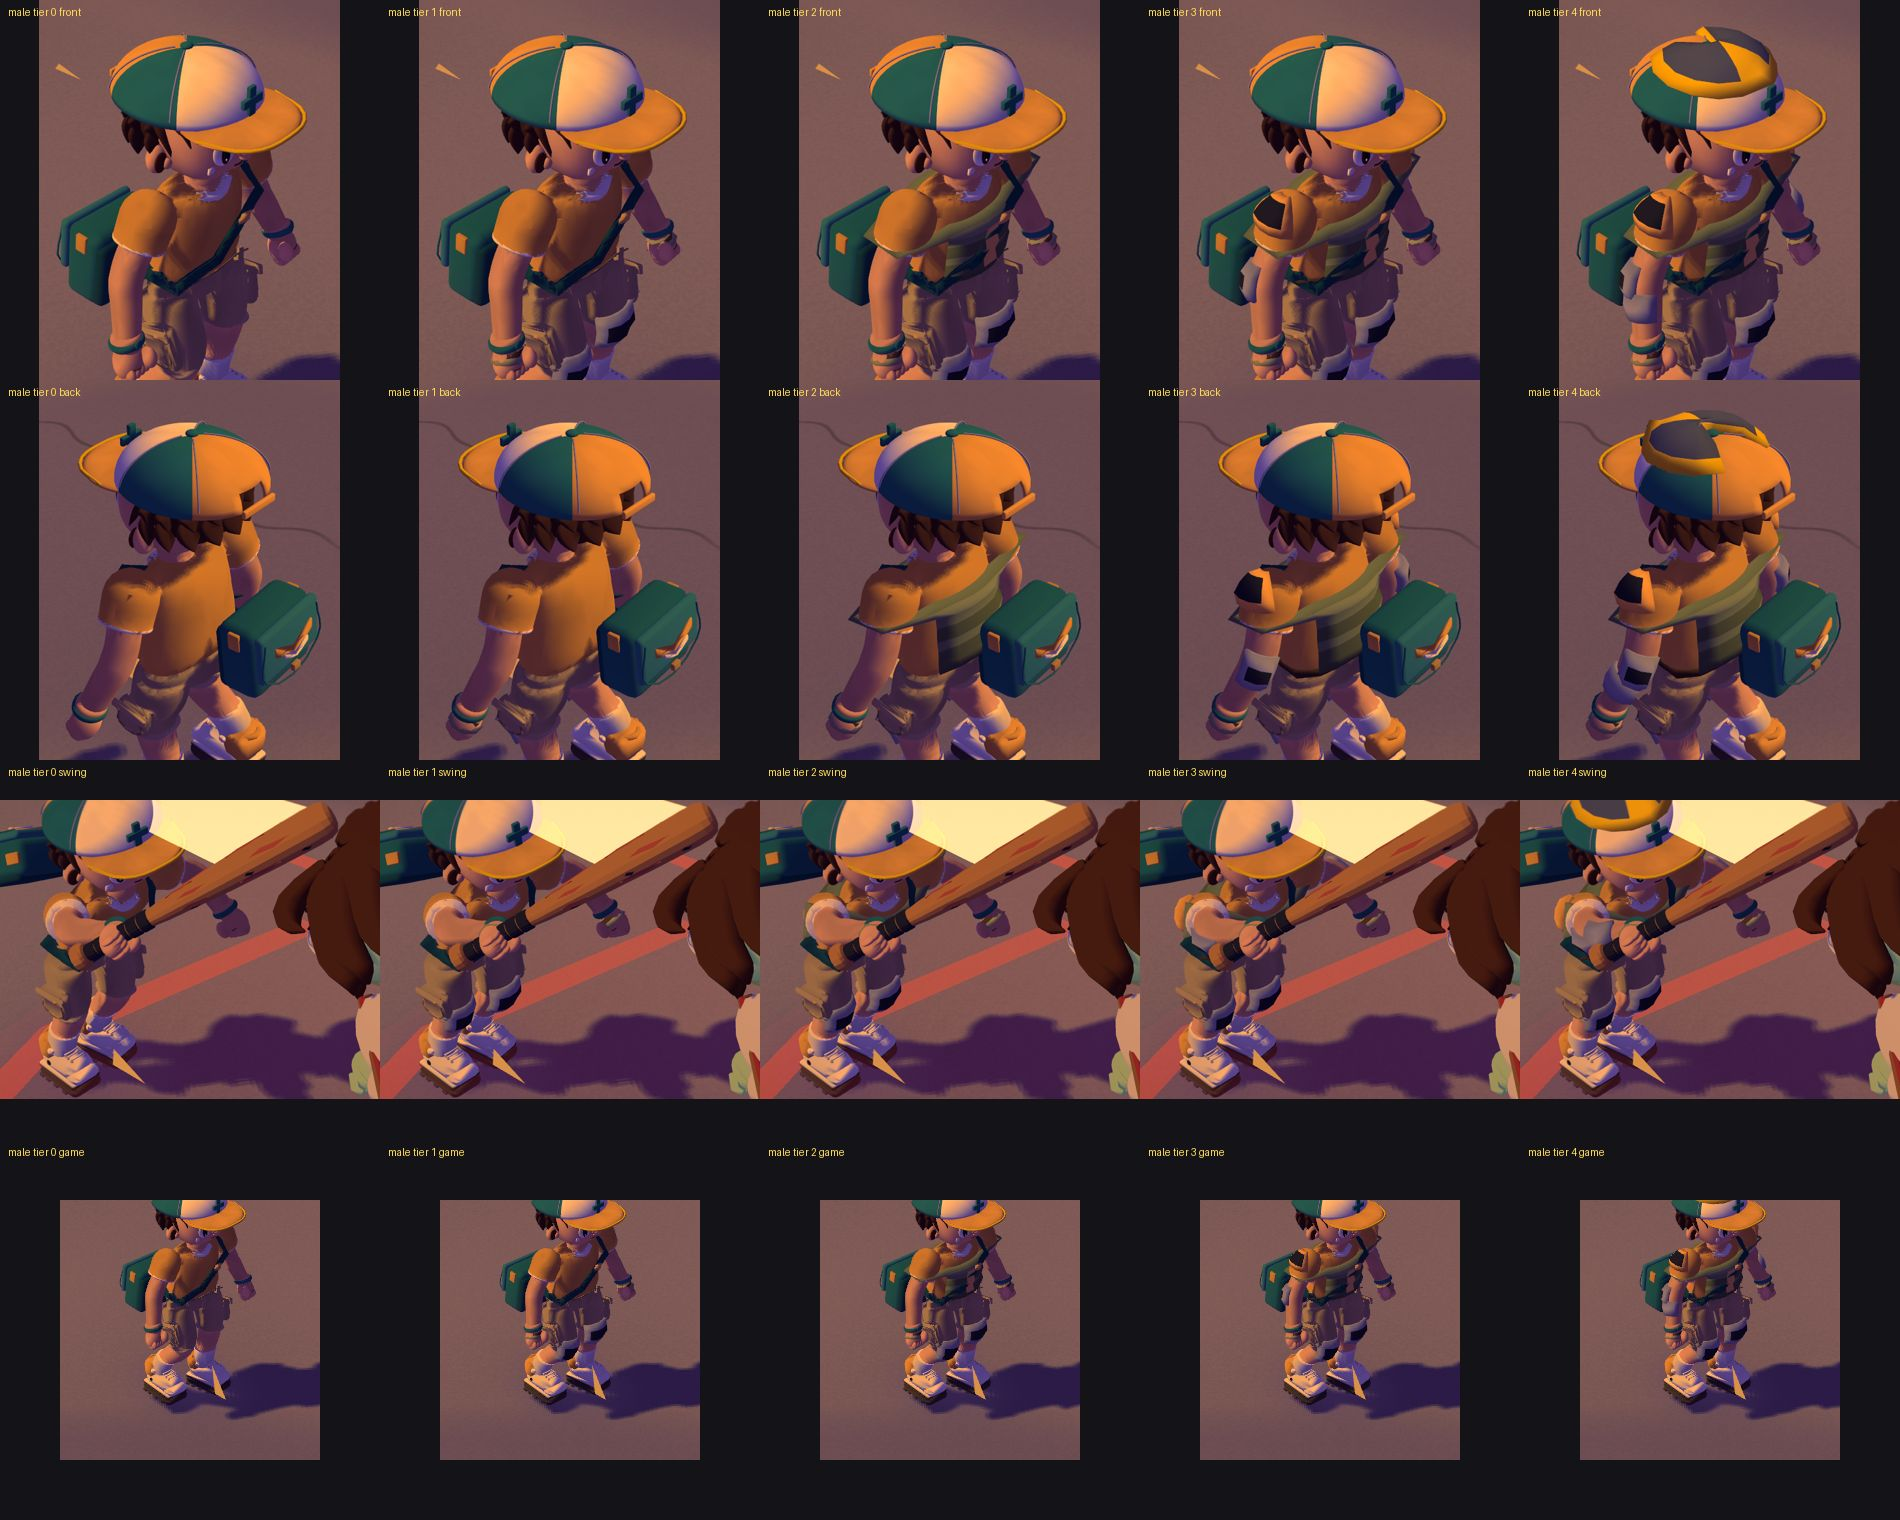
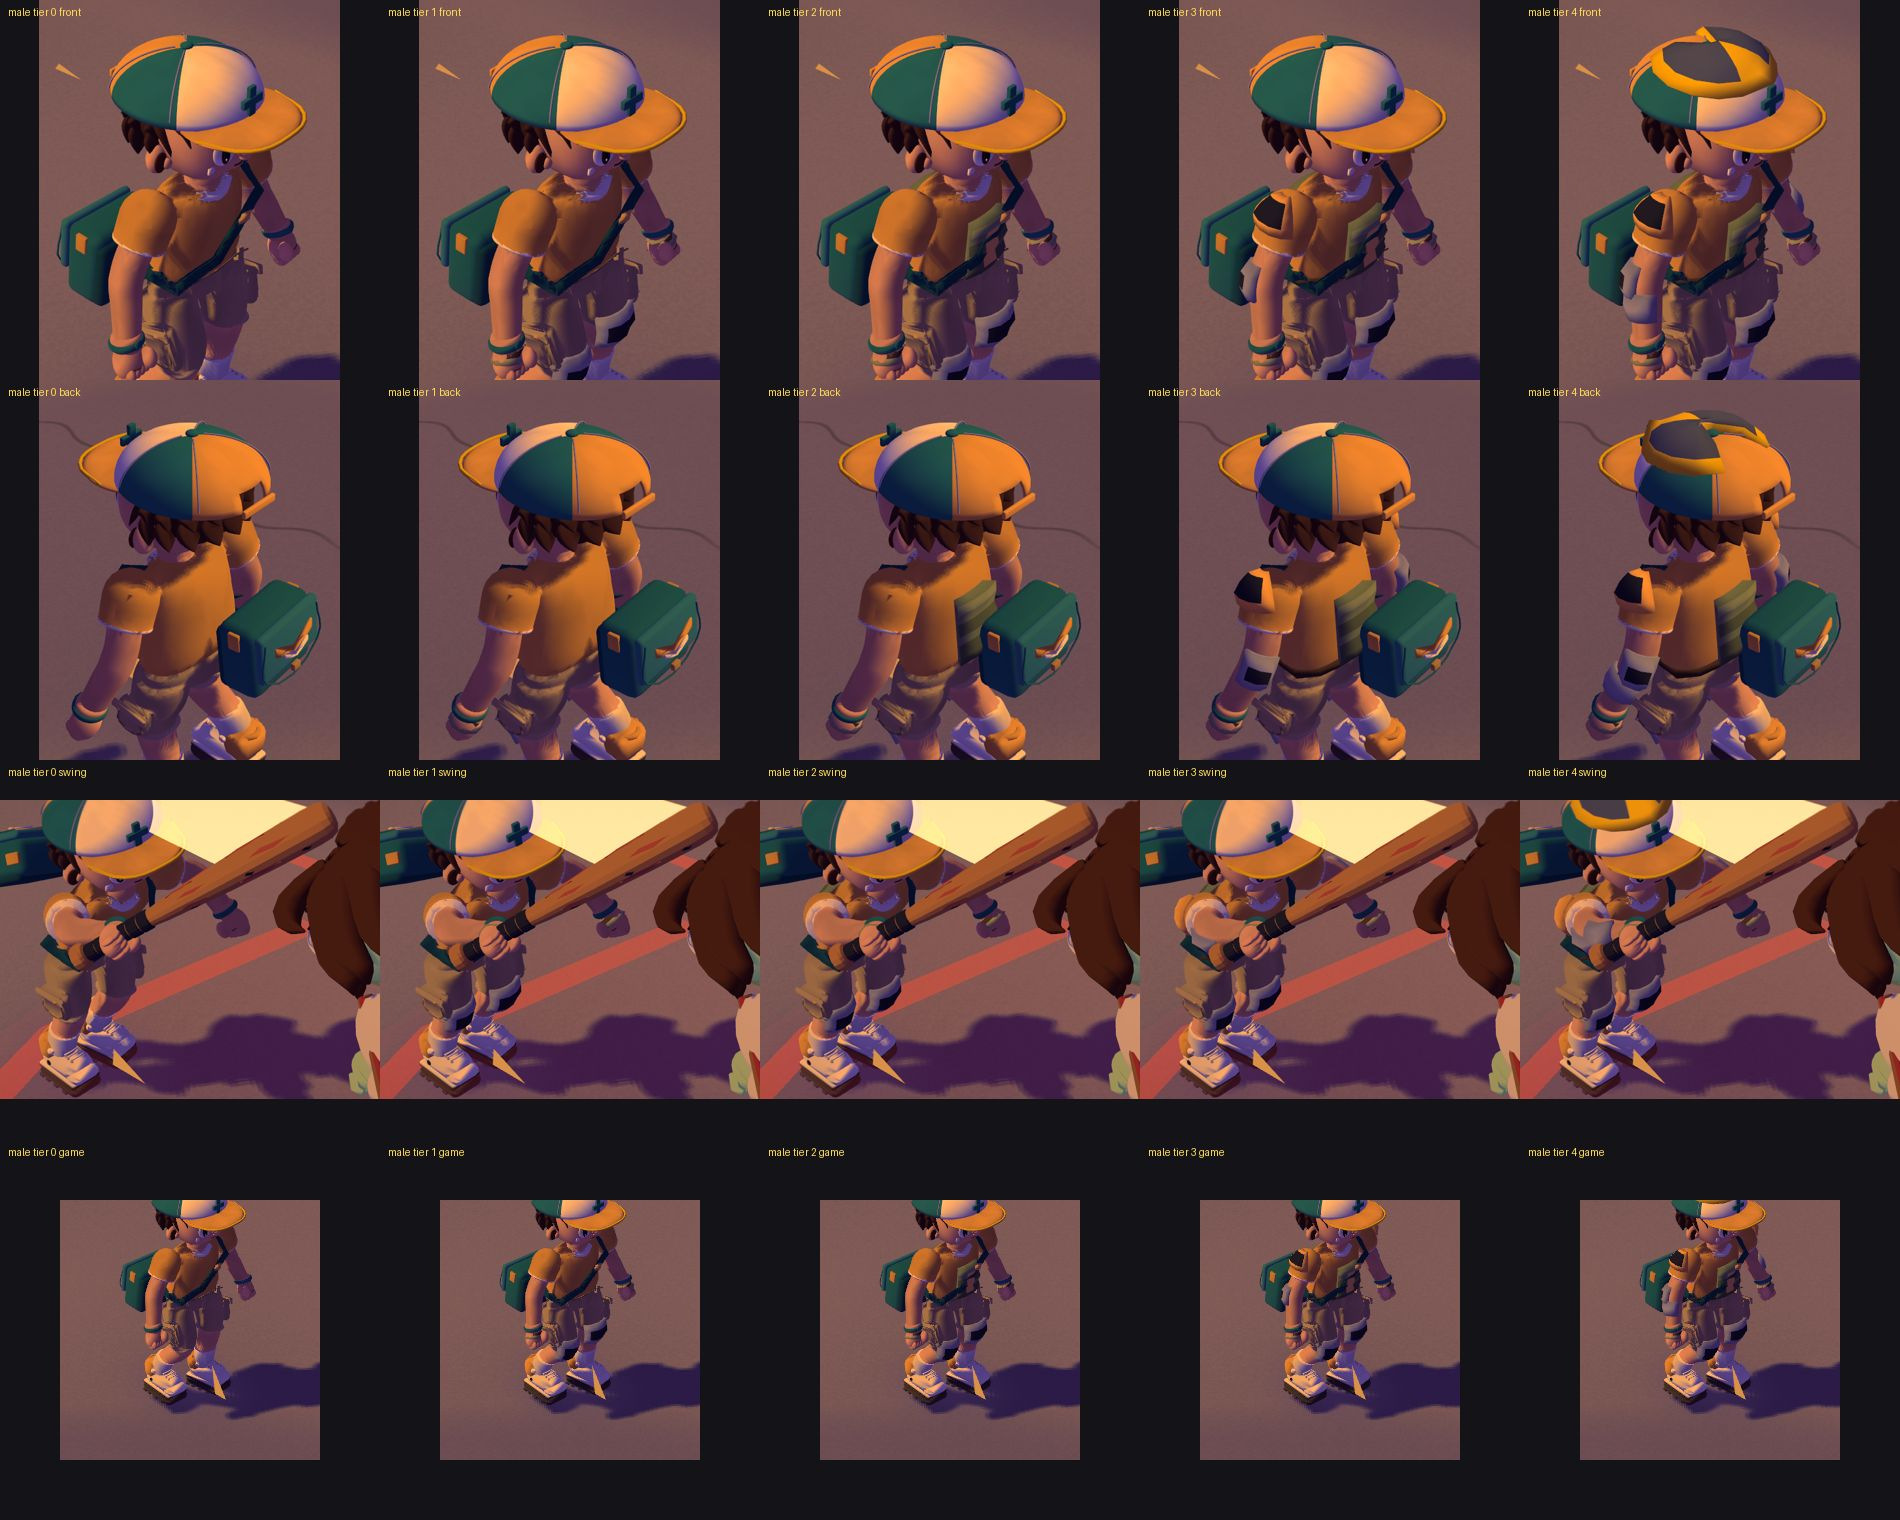
fix(E04): armholes 42 deg for more vest bulk
Claude-Session: https://claude.ai/code/session_01R2Hhh41gjaAMkcFWkMvgh7

diff --git a/assets/acc.courier-gear/build.py b/assets/acc.courier-gear/build.py
@@ -290,7 +290,7 @@ def build_gear(body, lod, sex):
         return 'olive' if i % 2 else 'oliveSeam'
     g.patch('olive', around(torso, lambda s: z1 - (z1 - z0) * s, -180 / cols, 0, closed=True), vest_thick, rows, cols, closed=True,
             bvh=body.bvh_nopack, cell_color=vest_color, median=True, shade=.4,
-            drop=lambda i, j, R, C: i < R * .85 and min(abs(360 * j / C - 90), abs(360 * j / C - 270)) <= 50)   # armholes
+            drop=lambda i, j, R, C: i < R * .85 and min(abs(360 * j / C - 90), abs(360 * j / C - 270)) <= 42)   # armholes
     g.tier_mark()
 
     # ---- tier 3: shoulder + elbow pads, utility belt ----------------------------------------------------------------
